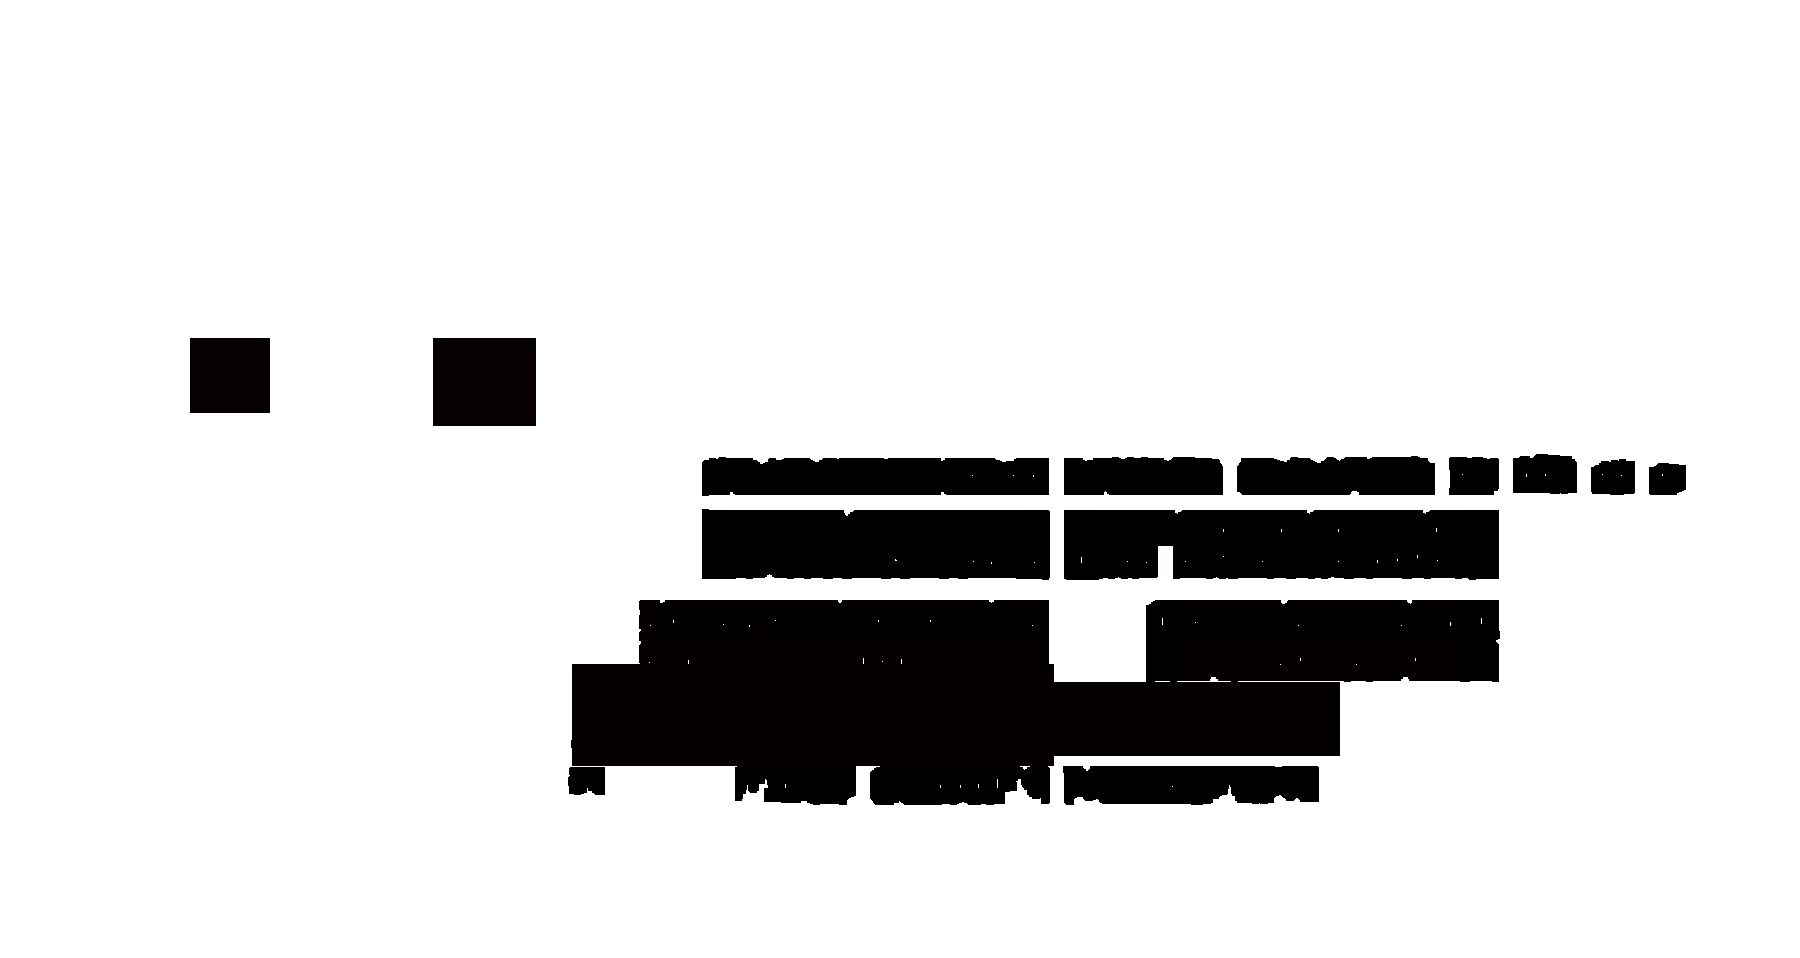
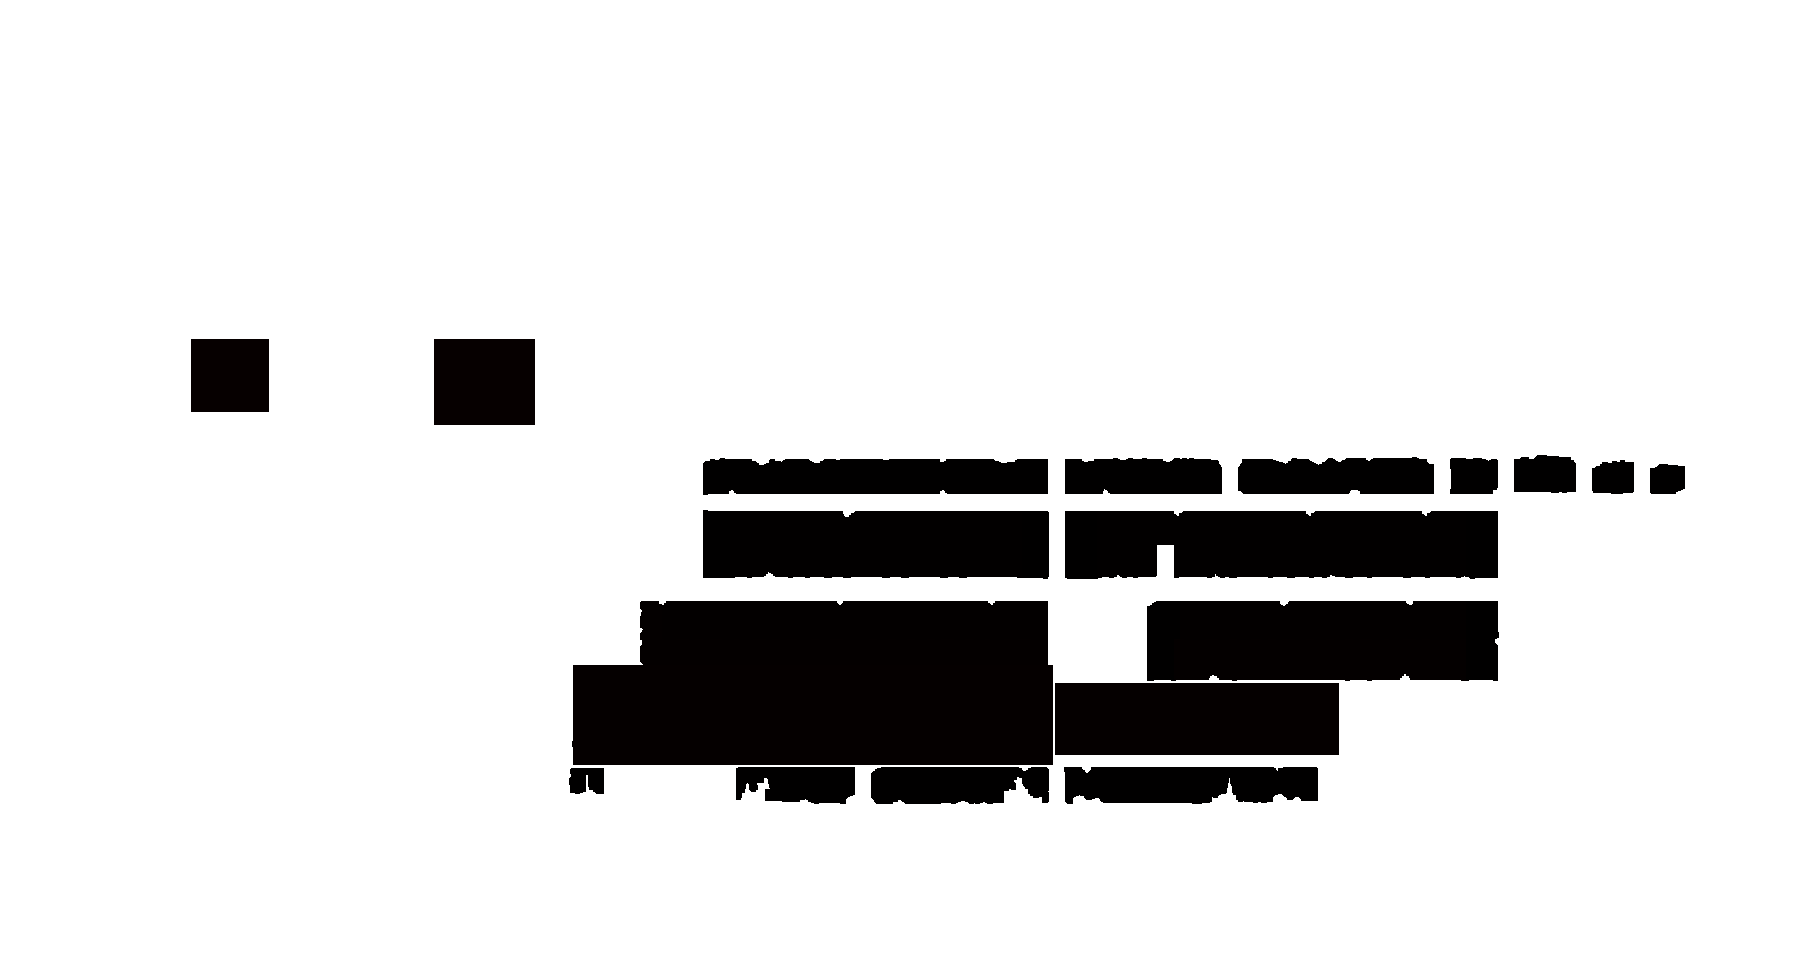
Simplify Master Plan hover back to a clean black border, fix black spots
- Reverted the glow/pulse/elevation effect back to the earlier
  simple style: a plain black border on the selected category,
  nothing else — no fill, no glow, no animation
- Root-caused and fixed the scattered black spots appearing inside
  a selected block: small icons (parked cars, symbols) printed
  inside plot cells don't match the category's fill colour, leaving
  tiny interior gaps in the mask. The previous erode-based ring
  algorithm drew a border around every one of those gaps, which
  read as black dots scattered through the highlight. Ring
  computation is now pure outward dilation (dilate the filled mask,
  subtract the original) instead of erosion-based, so nothing
  inside the shape can ever produce a border — only the true outer
  edge does
- Also close any small enclosed gaps in the mask before computing
  the ring, and tightened the dilation radius so the border hugs
  the true plot boundary instead of overshooting into neighbouring
  roads/plots
- Picked up lux-tabletennis.webp, another source image that had
  landed as raw PNG bytes under its .webp filename

diff --git a/client/src/styles/global.css b/client/src/styles/global.css
@@ -2315,19 +2315,7 @@ h3 {
   opacity: 0;
   transition: opacity 0.35s ease, filter 0.35s ease;
 }
-.mplan-real-hl.on {
-  opacity: 1;
-  /* warm glowing lift — no black anywhere, just a breathing gold bloom */
-  animation: mplanGlowPulse 1.8s ease-in-out infinite;
-}
-@keyframes mplanGlowPulse {
-  0%, 100% {
-    filter: drop-shadow(0 0 9px rgba(255, 191, 71, 0.5)) drop-shadow(0 8px 16px rgba(120, 80, 20, 0.28));
-  }
-  50% {
-    filter: drop-shadow(0 0 22px rgba(255, 191, 71, 0.9)) drop-shadow(0 8px 18px rgba(120, 80, 20, 0.32));
-  }
-}
+.mplan-real-hl.on { opacity: 1; }
 
 /* tooltip that follows the cursor over the plan */
 .mplan-tip {
